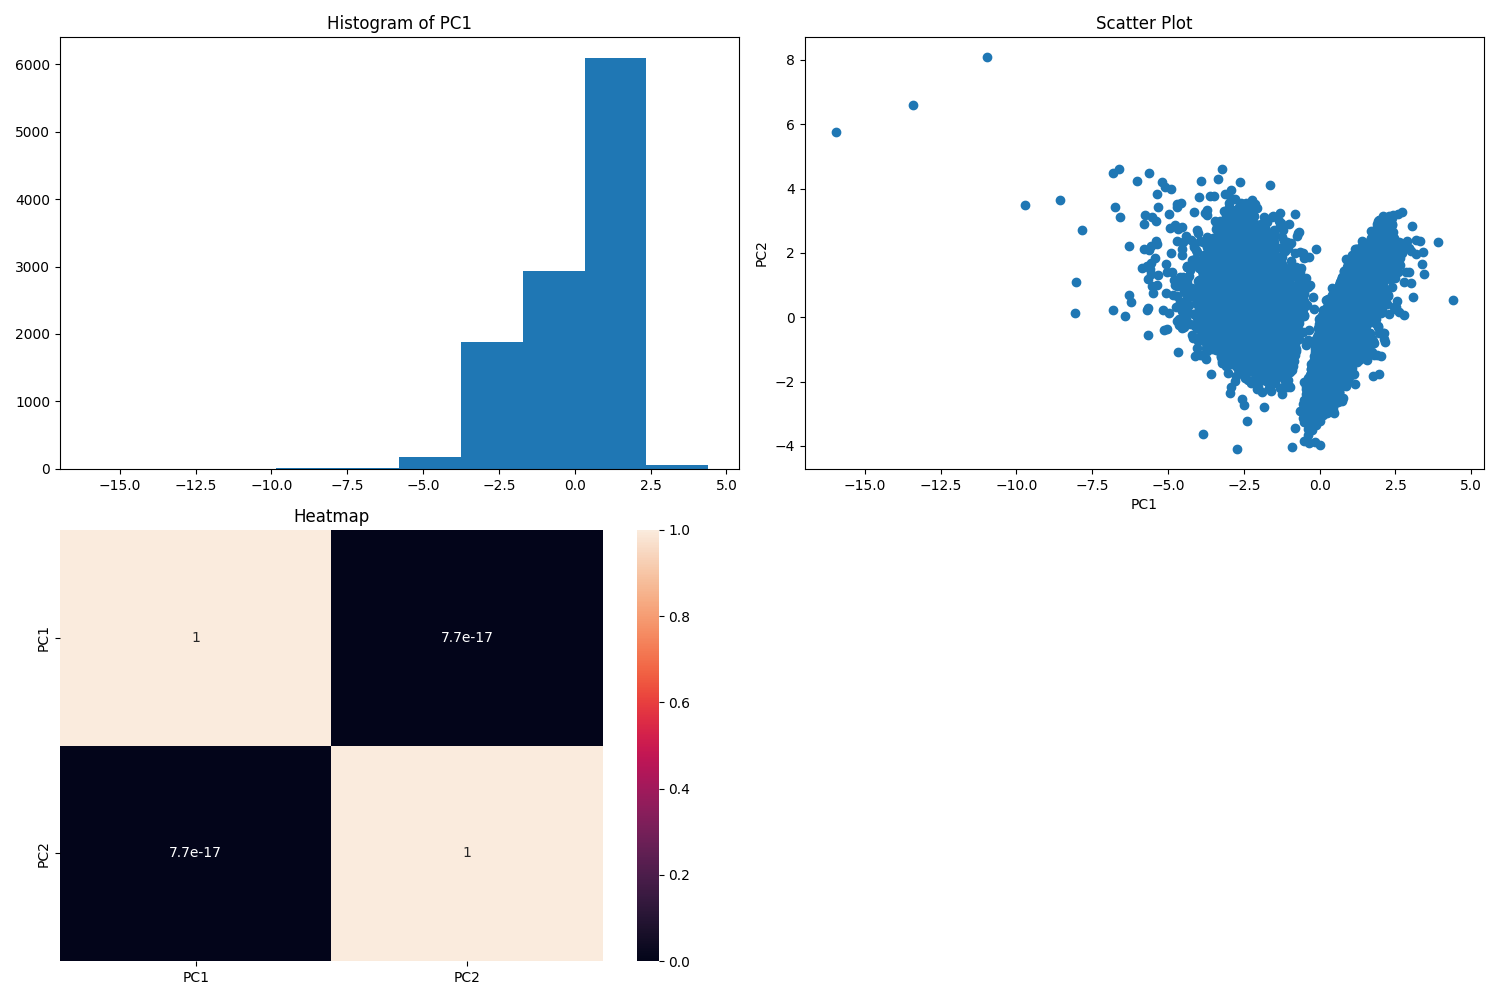
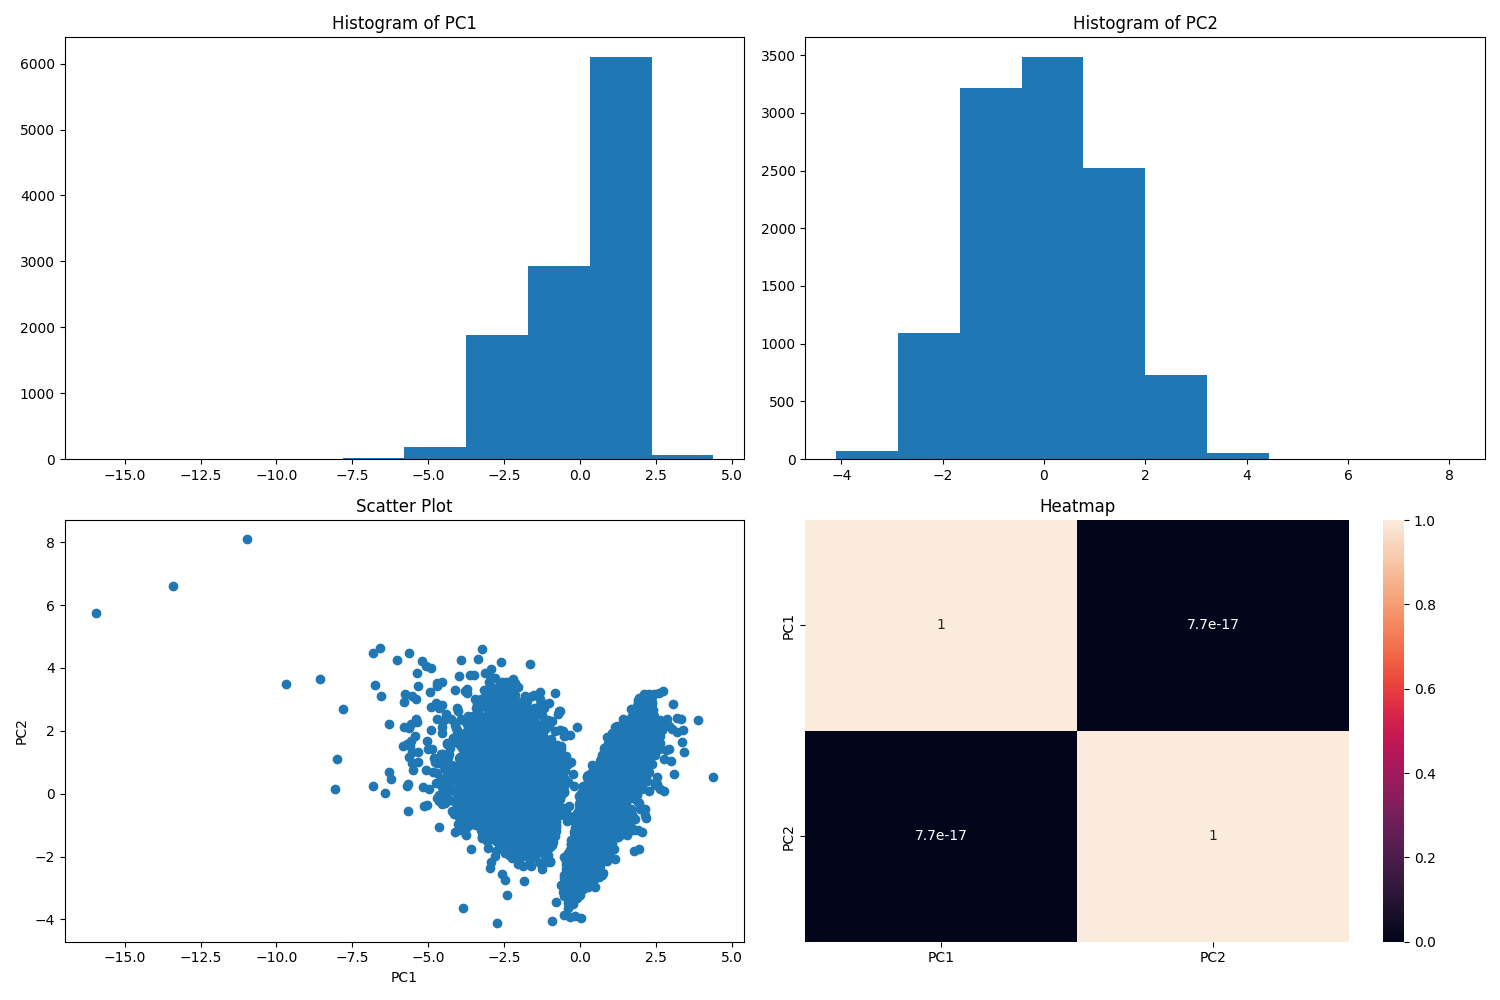
edit

diff --git a/visualize.py b/visualize.py
@@ -7,45 +7,27 @@ import os
 file_path = sys.argv[1]
 df = pd.read_csv(file_path)
 
-
-plt.figure()
-df.hist()
-plt.suptitle("Histogram of Features")
-plt.savefig("histogram.png")
-
-
-plt.figure()
-plt.scatter(df["PC1"], df["PC2"])
-plt.xlabel("PC1")
-plt.ylabel("PC2")
-plt.title("Scatter Plot")
-plt.savefig("scatter.png")
-
-
-plt.figure()
-numeric_df = df.select_dtypes(include='number')
-sns.heatmap(numeric_df.corr(), annot=True)
-plt.title("Correlation Heatmap")
-plt.savefig("heatmap.png")
-
-
-
 plt.figure(figsize=(15,10))
 
-# 1. Histogram (ONLY PC1)
+# 1. Histogram PC1
 plt.subplot(2,2,1)
 plt.hist(df["PC1"])
 plt.title("Histogram of PC1")
 
-# 2. Scatter
+# 2. Histogram PC2
 plt.subplot(2,2,2)
+plt.hist(df["PC2"])
+plt.title("Histogram of PC2")
+
+# 3. Scatter
+plt.subplot(2,2,3)
 plt.scatter(df["PC1"], df["PC2"])
 plt.xlabel("PC1")
 plt.ylabel("PC2")
 plt.title("Scatter Plot")
 
-# 3. Heatmap
-plt.subplot(2,2,3)
+# 4. Heatmap
+plt.subplot(2,2,4)
 numeric_df = df.select_dtypes(include='number')
 sns.heatmap(numeric_df.corr(), annot=True)
 plt.title("Heatmap")
@@ -54,6 +36,5 @@ plt.tight_layout()
 plt.savefig("summary_plot.png")
 
 print("Visualizations saved")
-
 
 os.system("python cluster.py data_preprocessed.csv")
